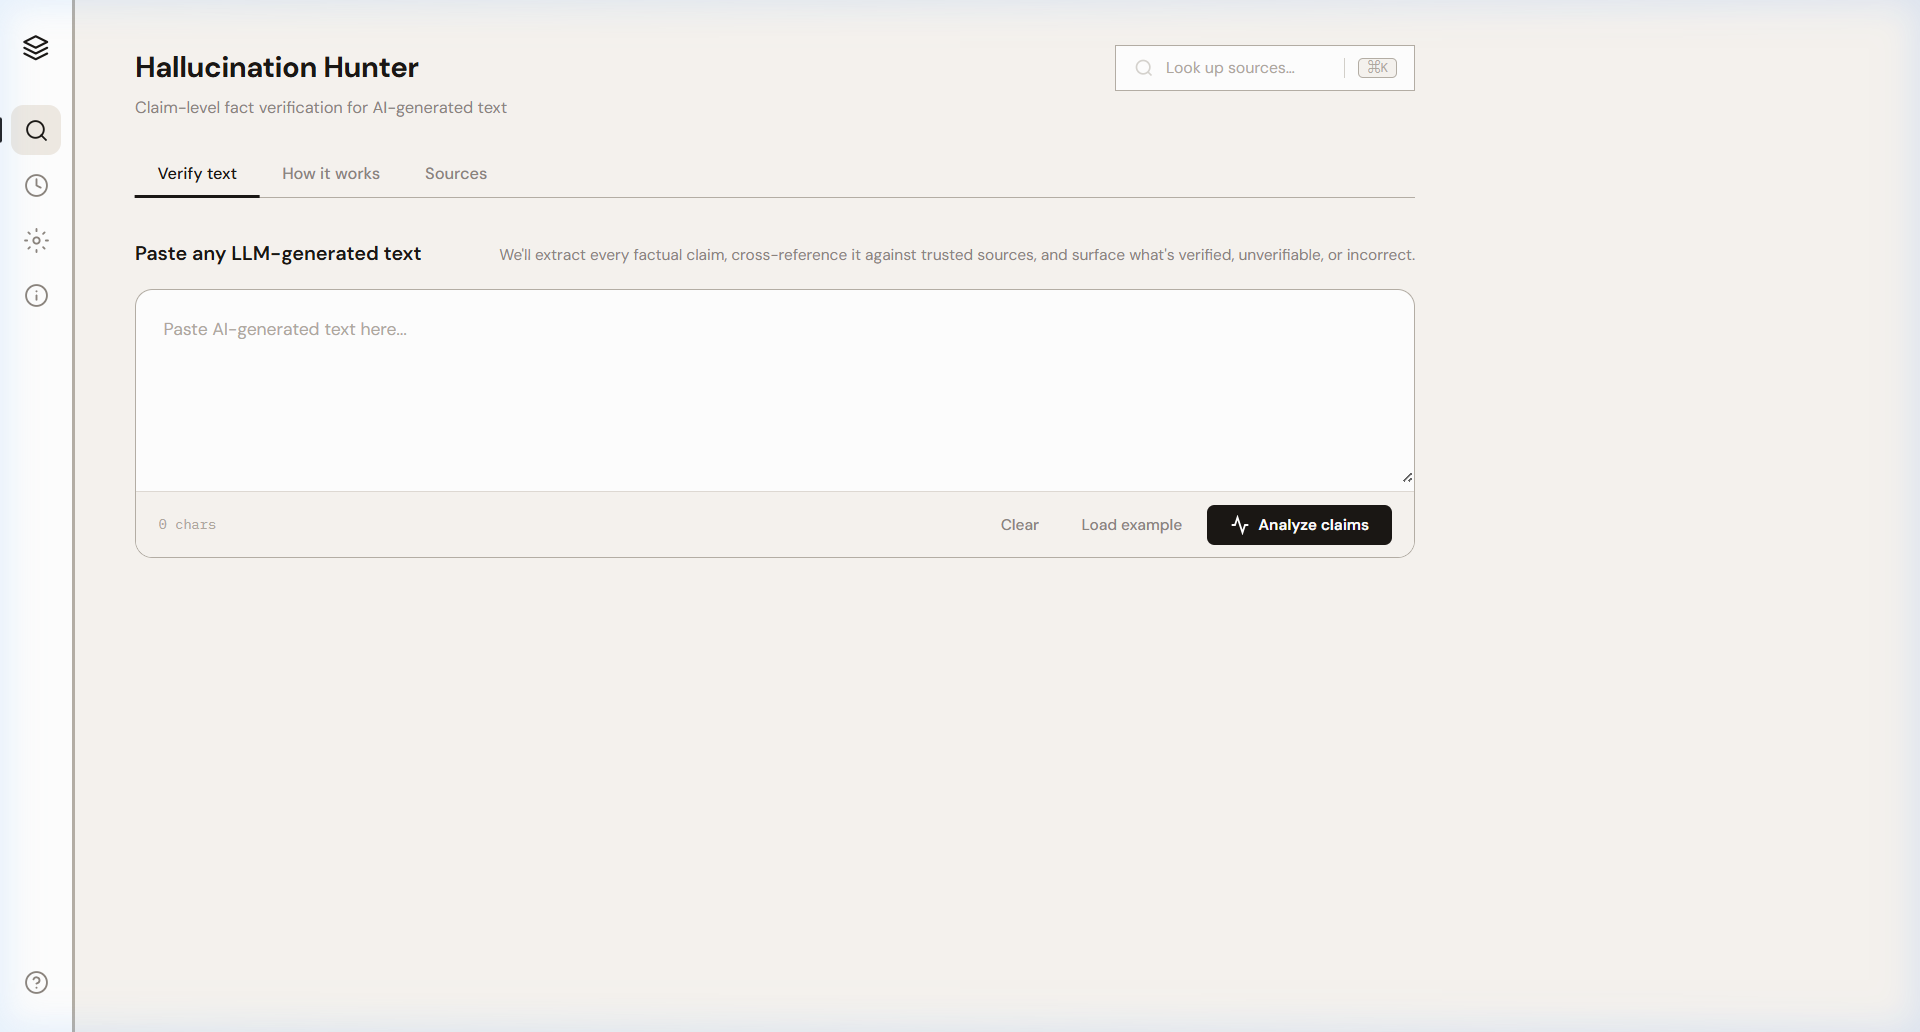
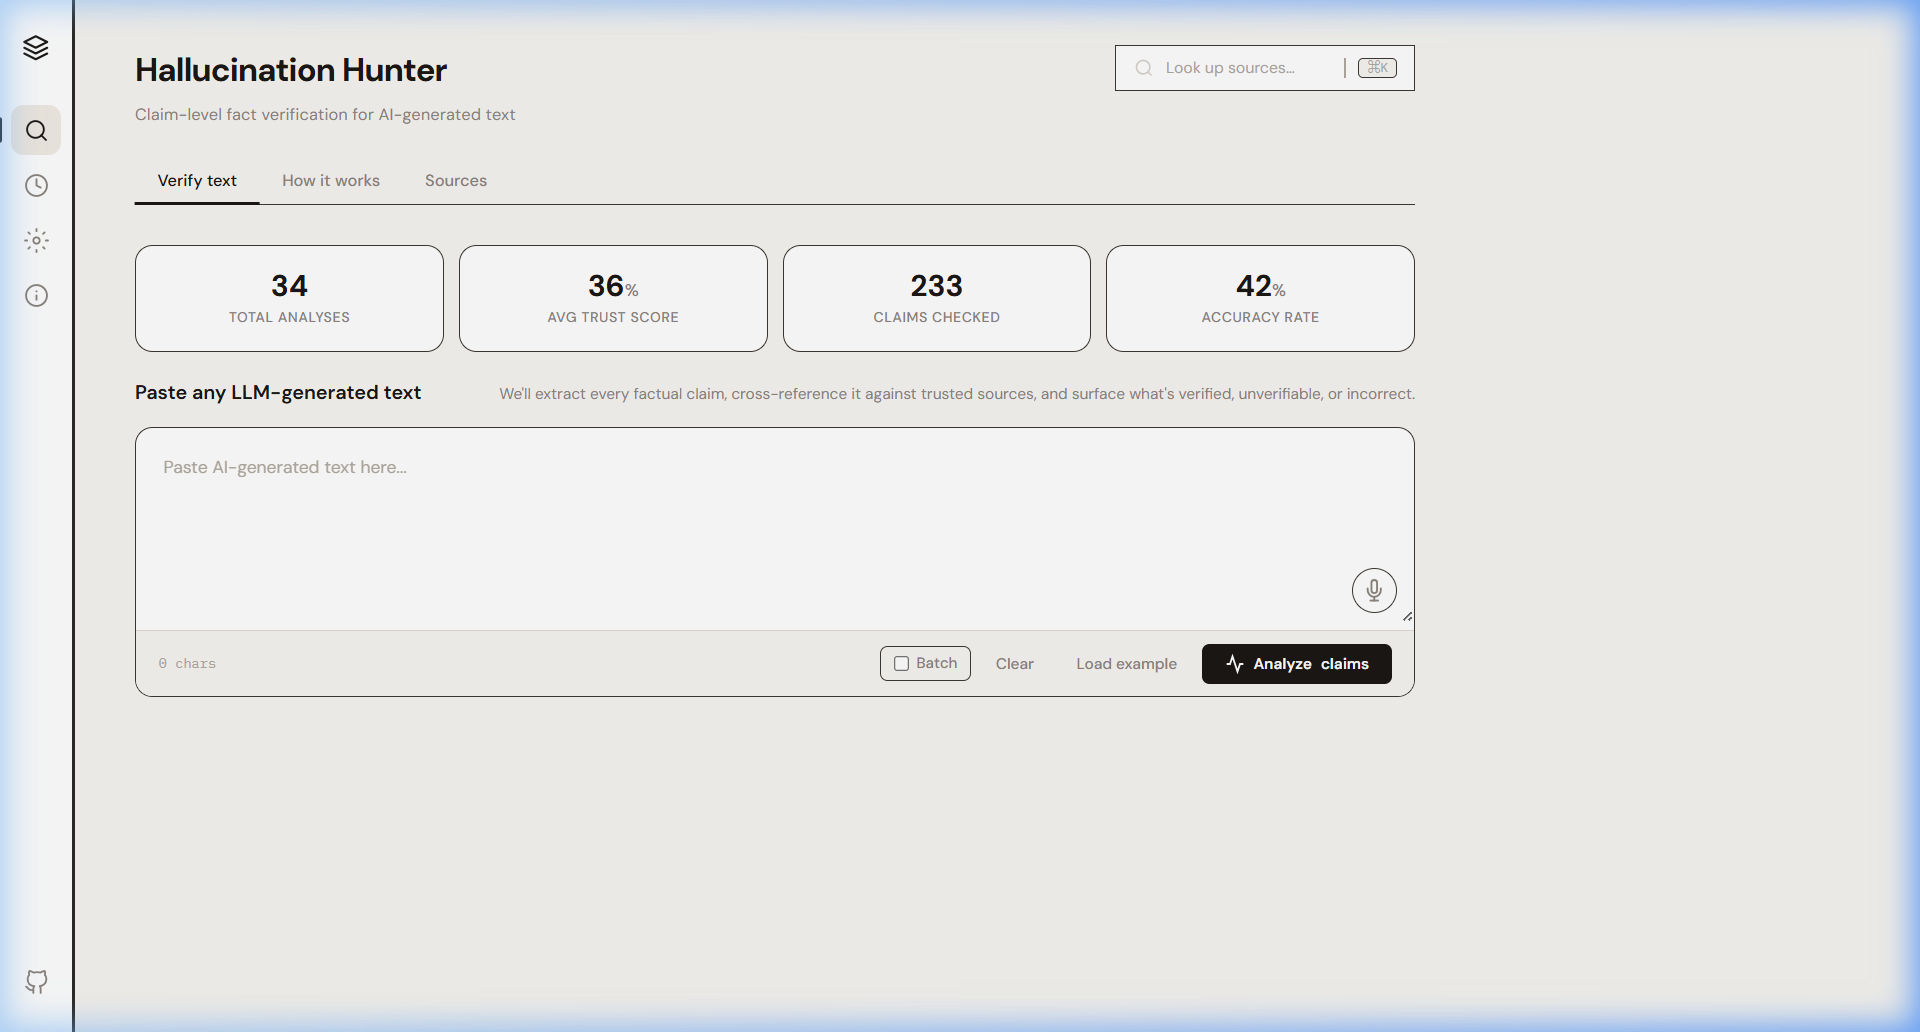
docs: update README with 4 fresh screenshots showing all features

diff --git a/README.md b/README.md
@@ -17,7 +17,17 @@
 
 ---
 
-![Hallucination Hunter Screenshot](screenshots/app-main.png)
+### 📊 Dashboard & Input
+![Hallucination Hunter — Main Dashboard](screenshots/app-main.png)
+
+### ✍ Example Claims Loaded
+![Example text loaded for analysis](screenshots/app-example.png)
+
+### 🔗 Trusted Source Directory
+![Curated source directory with 50+ verified references](screenshots/app-sources.png)
+
+### ⚙ How the Pipeline Works
+![Three-stage verification pipeline explained](screenshots/app-howitworks.png)
 
 ##  The Problem
 
@@ -208,7 +218,10 @@ hallucination-Hunter/
 ├── incorrect-icon.png  # ❌ False claim icon
 ├── unverifiable-icon.png # ⚠ Unverifiable claim icon
 ├── screenshots/        # App screenshots for README
-│   └── app-main.png
+│   ├── app-main.png
+│   ├── app-example.png
+│   ├── app-sources.png
+│   └── app-howitworks.png
 └── README.md
 ```
 
